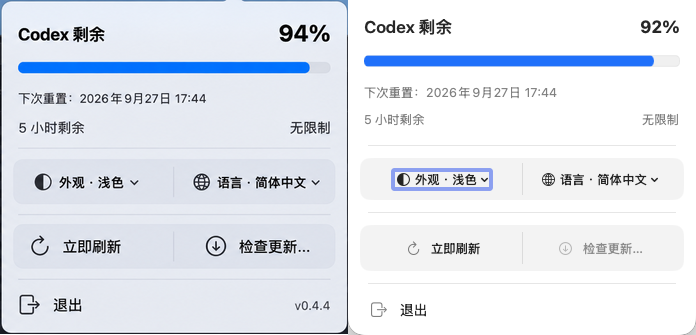
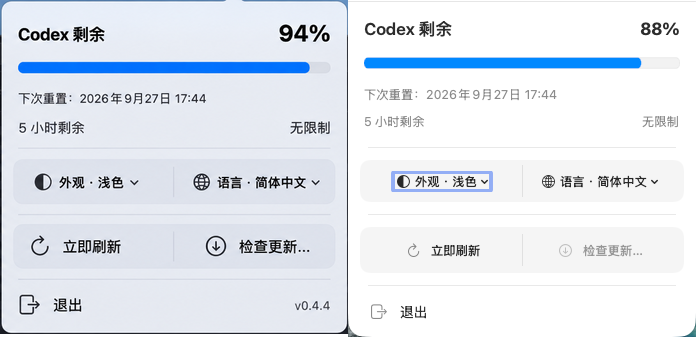
docs(usage): record opaque light appearance QA

diff --git a/design-qa.md b/design-qa.md
@@ -3,18 +3,18 @@
 ## Evidence
 
 - Source visual truth: `docs/images/codex-usage-dual-window.png`.
-- Rendered implementation: `docs/images/qa/codex-usage-actual-unlimited-zh.png`.
+- Rendered implementation: `docs/images/qa/codex-usage-actual-opaque-light-zh.png`.
 - Normalized side-by-side comparison: `docs/images/qa/codex-usage-source-vs-actual.png`.
 - Source pixels: 1586 × 992. The popover crop was 610 × 585 and normalized to 348 × 334.
-- Implementation pixels: 460 × 479. The app-content crop was 348 × 335.
-- Density normalization: both content crops were compared at 348 px wide. The one-pixel height difference is native window rounding.
-- State: Light appearance, Simplified Chinese, live `codex` account with a longer window, no five-hour window, and zero reset credits. Live remaining usage changed from the mock's 94% to 92% during capture.
+- Implementation pixels: 348 × 367. The app-content crop below the QA title bar was 348 × 337.
+- Density normalization: both content crops were compared at 348 px wide. The three-pixel height difference is native window rounding and action-row metrics.
+- State: Light appearance, Simplified Chinese, live `codex` account with a longer window, no five-hour window, and zero reset credits. Live remaining usage changed from the mock's 94% to 88% during capture.
 
 ## Full-view Comparison
 
 The implementation keeps the approved hierarchy: `Codex 剩余`, the longer-window percentage and blue progress bar, reset time, the `5 小时剩余 / 无限制` row, two-cell preferences, a single horizontal refresh/update row, and a separate Quit row. The reset redemption button, confirmation, empty state, and local history block are absent. Auxiliary buckets remain absent.
 
-The menu-bar title was also observed against the live account as a single `Codex 92%` item when no five-hour window exists. Automated presentation coverage verifies the dual-window form as `Codex x%-y%`, ordered by window duration rather than primary/secondary response slot.
+The menu-bar title was also observed against the live account as a single percentage when no five-hour window exists. Automated presentation coverage verifies the dual-window form as `Codex x%-y%`, ordered by window duration rather than primary/secondary response slot.
 
 ## Focused-region Comparison
 
@@ -23,8 +23,8 @@ The normalized side-by-side image compares the complete app-owned content at the
 ## Required Fidelity Surfaces
 
 - Fonts and typography: both use native SF typography with the same weight hierarchy. The implementation uses native control metrics and is optically smaller than the generated mock, but remains readable with no clipping or unwanted wrapping.
-- Spacing and layout rhythm: the implementation matches the target's compact 348-point width and 335-point content height. Section padding, dividers, equal-width preference cells, equal-width action cells, and the standalone Quit row align with the target.
-- Colors and visual tokens: system blue is reserved for the progress bar. Native light material, semantic primary/secondary text, subtle tinted control rows, and separators preserve contrast and appearance behavior.
+- Spacing and layout rhythm: the implementation matches the target's compact 348-point width and 337-point content height. Section padding, dividers, equal-width preference cells, equal-width action cells, and the standalone Quit row align with the target.
+- Colors and visual tokens: system blue is reserved for the progress bar. Light appearance now uses an explicit opaque white content background, while Dark retains the native window background. Semantic text, subtle tinted control rows, and separators preserve contrast without the foreground app bleeding through.
 - Image quality and asset fidelity: the screen contains no raster content assets. Native SF Symbols are used for utility controls; no placeholder, emoji, custom SVG, or code-drawn asset substitutes are present.
 - Copy and content: the captured unlimited state uses the approved Chinese copy. Positive reset count is absent at zero; dual-window percentages and localized reset suffixes are covered by focused tests.
 
@@ -32,7 +32,7 @@ The normalized side-by-side image compares the complete app-owned content at the
 
 - No actionable P0, P1, or P2 findings remain.
 - P3: the generated mock uses slightly larger display typography than native macOS controls. Keeping native metrics avoids cramped labels and preserves platform consistency.
-- P3 evidence limit: the temporary QA window shows a keyboard focus ring, disables Sparkle's update action, and omits the bundle version because it is not the packaged app. These are harness artifacts. Packaging tests verify version `1.0.0 (9)`, and the production scene remains a single `MenuBarExtra`.
+- P3 evidence limit: the temporary QA window shows a keyboard focus ring, disables Sparkle's update action, and omits the bundle version because it is not the packaged app. These are harness artifacts. Packaging tests verify version `1.0.1 (10)`, and the production scene remains a single `MenuBarExtra`.
 - The live account has no five-hour window, so the finite `x% - y%` popover state was not visually captured. Unit tests cover both window orders, missing percentages, duplicate 300-minute windows, and longer-window progress/reset selection.
 
 ## Comparison History
@@ -40,12 +40,13 @@ The normalized side-by-side image compares the complete app-owned content at the
 1. Baseline: the old UI devoted a full section to reset redemption, zero-reset copy, and locally stored history.
 2. Selected redesign: removed reset operations/history, moved positive reset count beside the reset time, added the unlimited five-hour row, and placed Refresh/Update side by side.
 3. Code-review iteration: fixed longer-window progress fallback and duplicate 300-minute-window classification, then added duration-order regression coverage.
-4. Post-fix evidence: `docs/images/qa/codex-usage-source-vs-actual.png` shows the final live unlimited state aligned with the selected visual target.
+4. Background regression: the production `MenuBarExtra` material allowed a dark foreground app to tint Light appearance gray. The root view now paints opaque white in Light and an opaque native window color in Dark.
+5. Post-fix evidence: `docs/images/qa/codex-usage-source-vs-actual.png` shows the final unlimited state aligned with the target; the white content remains opaque against a black QA host.
 
 ## Verification Scope
 
-- Visually verified: one menu-bar title, Light/Simplified Chinese content, live longer-window percentage and reset time, unlimited five-hour row, hidden zero reset count, compact preferences, horizontal actions, and Quit separation.
-- Verified by automated tests: five-hour-first title formatting, response-slot independence, single-window fallback, longer-window progress/reset selection, reset singular/plural copy, hidden zero count, localization parity, legacy reset-history deletion, and read-only live integration.
+- Visually verified: opaque-white Light/Simplified Chinese content, live longer-window percentage and reset time, unlimited five-hour row, hidden zero reset count, compact preferences, horizontal actions, and Quit separation.
+- Verified by automated tests: light/dark background policy, five-hour-first title formatting, response-slot independence, single-window fallback, longer-window progress/reset selection, reset singular/plural copy, hidden zero count, localization parity, legacy reset-history deletion, and read-only live integration.
 - Verified structurally: no reset consume RPC, idempotency key, reset credit identifier, redemption action, or reset-history model/persistence remains in application code.
 
 ## Final Result
